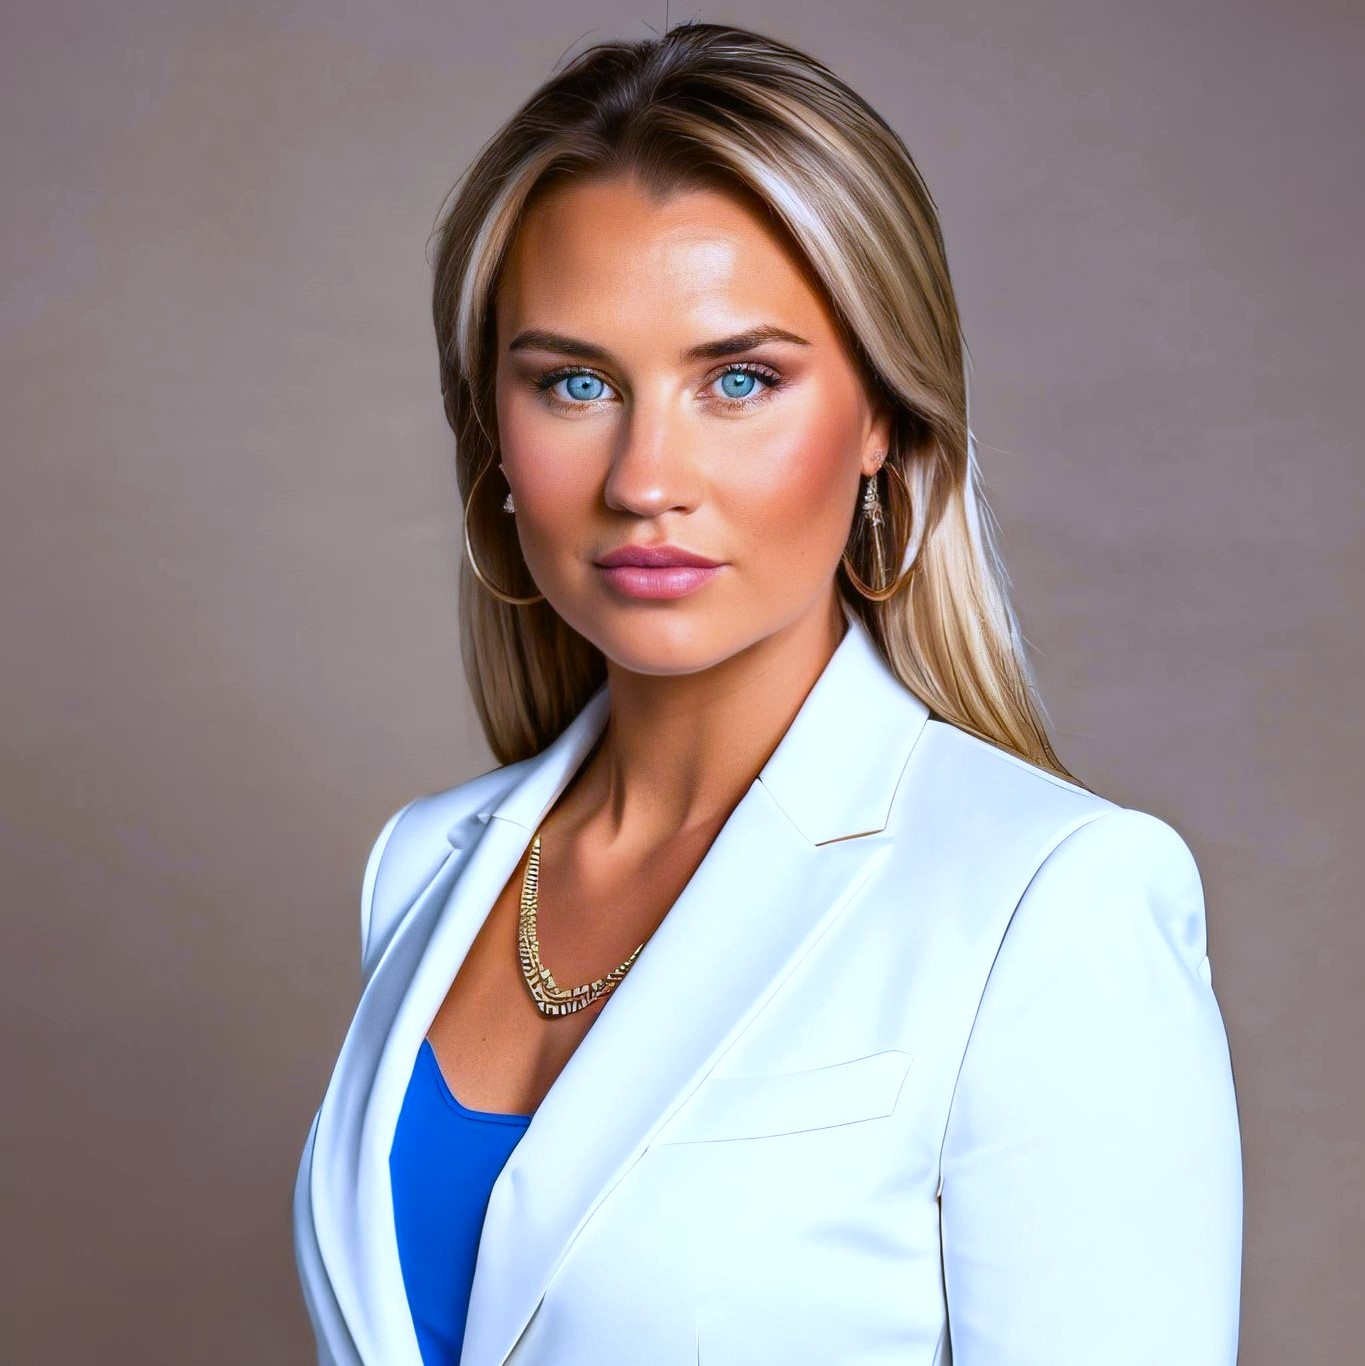
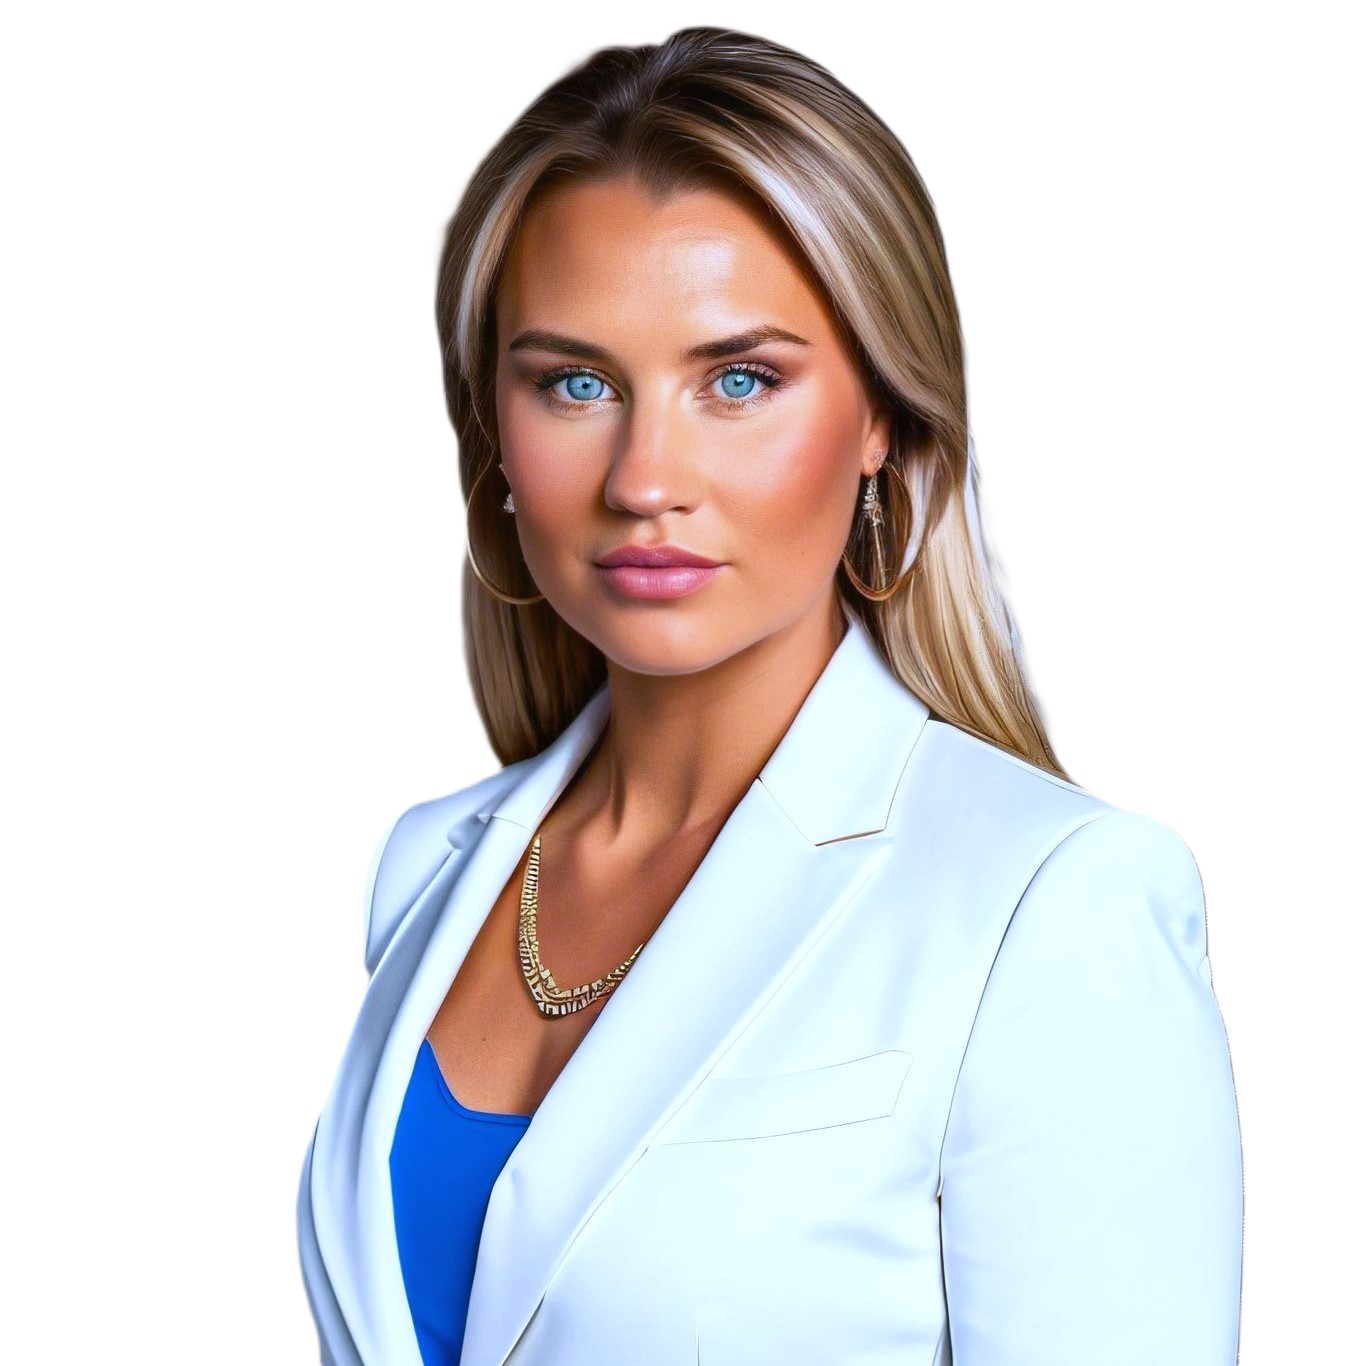
changes

diff --git a/src/components/Contact/Contact.module.css b/src/components/Contact/Contact.module.css
@@ -1,9 +1,6 @@
 @import "../../vars.css";
 
 .contactMe {
-  background-image: url("/Mountains.png"); /* Lägger till en bakgrundsbild */
-  background-repeat: no-repeat;
-  background-size: cover;
   border: 1px solid #181136; /* Lägger till en ram runt containeren */
   box-shadow: 1px 2px 3px 2px rgba(108, 222, 254, 0.7); /* Lägger till en lätt skugga för djup */
   border-radius: 30px; /* Rundar hörnen på containeren */
@@ -11,16 +8,16 @@
   justify-content: center;
   display: flex; /* Aktiverar Flexbox */
   flex-direction: column; /* Staplar barnen vertikalt */
-  margin-bottom: 5%; /* Lägger till lite utrymme under `contactMe` */
   margin: 0 10%; /* Lägger till lite utrymme runt containeren */
 }
 .contactContainer { 
-  
+  background-image: url(/svg.png);
+  background-size: cover;
+  padding-bottom: 3%;
   z-index: 100; 
   display: flex; /* Aktiverar Flexbox */
   flex: 1; /* Låter containeren ta upp allt tillgängligt utrymme */
   flex-direction: column; /* Staplar barnen vertikalt */
-  margin-bottom: 1rem; /* Lägger till lite utrymme nedtill */
 }
 
 .contactInfo img {
@@ -104,8 +101,8 @@
 .imagepic img {
   margin-right: 10%; 
   width: 100%; /* Gör bilden responsiv */
-  border: 1px solid #1b113a; /* Lägger till en ram runt bilden */
-  box-shadow: 1px 2px 10px 2px rgba(108, 222, 254, 0.7); /* Lägger till en lätt skugga för djup */
+  border:none;
+  background-color: rgba(255, 101, 209, 0.1);
   border-radius: 100%; /* Rundar hörnen på bilden */
 }
 
@@ -203,14 +200,14 @@
   }
   .contactContainer {
     margin: 0; /* Tar bort utrymme runt containeren */
+    background-size: cover;
+    padding: 0;
   }
   .contactHeader h1 {
     font-size: 3rem; /* Storleken på rubriken */
   }
   .contactMe {
     margin-top: 0; /* Tar bort utrymme ovanför `contactMe` */
-    background-image: none; /* Tar bort bakgrundsbilden */
-    background-color: rgba(93, 163, 224, 0.1) /* Ändrar bakgrundsfärgen på containeren */
   }
   .socialMediaLinks {
     margin-top: 1.5rem; /* Lägger till lite utrymme ovanför länkarna */
@@ -236,6 +233,7 @@
   .contactForm button {
     align-self: center; /* Centrerar knappen */
     width: 20%; /* Gör att knappen tar upp hela bredden */
+    margin-bottom: 5%;
   }
 }
 

diff --git a/src/components/Contact/Contact.jsx b/src/components/Contact/Contact.jsx
@@ -47,8 +47,6 @@ export const Contact = () => {
 
 return (
   <div id="contact" className={styles.contactContainer}>
-   
-      
       <motion.div
         ref={ref}
         initial={{ y: 200, opacity: 0 }} // Börjar positionen lite nedåt och opaciteten som 0
@@ -69,7 +67,7 @@ return (
              transition={{ duration: 1, delay: 0 }} // Definiera duration och delay för animationen
               className={styles.imagepic}
           >
-               <img src="/linkedin.jpg" alt="contactmepic" />
+               <img src="/linkedin.png" alt="contactmepic" />
            </motion.div>
 
                 <div className={styles.contactInfo}>
@@ -93,11 +91,10 @@ return (
                        {!formVisible && (
                          <>
                            <p className={styles.buttomP}>Want to leave a comment?</p>
-                             <button onClick={toggleFormVisibility} className={styles.contactButton}>Click me!</button>
+                             <button onClick={toggleFormVisibility} className={styles.contactButton}>Click me!</button>  
                            </>
                          )}
-                  </div>
-          
+                  </div> 
         </div>
        {formVisible && (
         <motion.div
@@ -121,10 +118,11 @@ return (
           </form>
           </div>
         </motion.div>
+        
+        
        )}  
-     </motion.div>  
+     </motion.div> 
   </div> 
   
- 
   );
 };

diff --git a/src/components/Projects/Projects.jsx b/src/components/Projects/Projects.jsx
@@ -23,9 +23,9 @@ export const Projects = () => {
     const projects = [
         {
             id: 1,
-            title: "Project 1",
-            description: "This is a project where you can see the latest movies. I used React, Node.js, Express, html and css. I also made a page where you can see the movies you have saved and download it in case there is no wifi.",
-            imageUrl: "Illustration.png",
+            title: "Art Gallery Shop",
+            description: "En webbshop med mina egna målningar och min konst i en fungerande webbshop. Här kan man se mina målningar och lägga till dem i en varukorg.",
+            imageUrl: "arpage.png",
             githubUrl: "https://github.com/ellinorjanssonl",
             websiteUrl: "https://ellinorsportfolio.vercel.app/"
         },

diff --git a/index.html b/index.html
@@ -2,14 +2,14 @@
 <html lang="en">
   <head>
     <meta charset="UTF-8" />
-    <link rel="stylesheet" href="https://stackpath.bootstrapcdn.com/bootstrap/4.5.2/css/bootstrap.min.css">
-
     <link rel="logo" type="logo" href="logo.png" />
+    <link rel="stylesheet" href="https://stackpath.bootstrapcdn.com/bootstrap/4.5.2/css/bootstrap.min.css">
     <meta name="viewport" content="width=device-width, initial-scale=1.0" />
     <title>Min portfolio</title>
   </head>
   <body>
     <div id="root"></div>
     <script type="module" src="/src/main.jsx"></script>
+    <script src="https://cdn.jsdelivr.net/npm/bootstrap@5.3.3/dist/js/bootstrap.bundle.min.js" integrity="sha384-YvpcrYf0tY3lHB60NNkmXc5s9fDVZLESaAA55NDzOxhy9GkcIdslK1eN7N6jIeHz" crossorigin="anonymous"></script>
   </body>
 </html>
